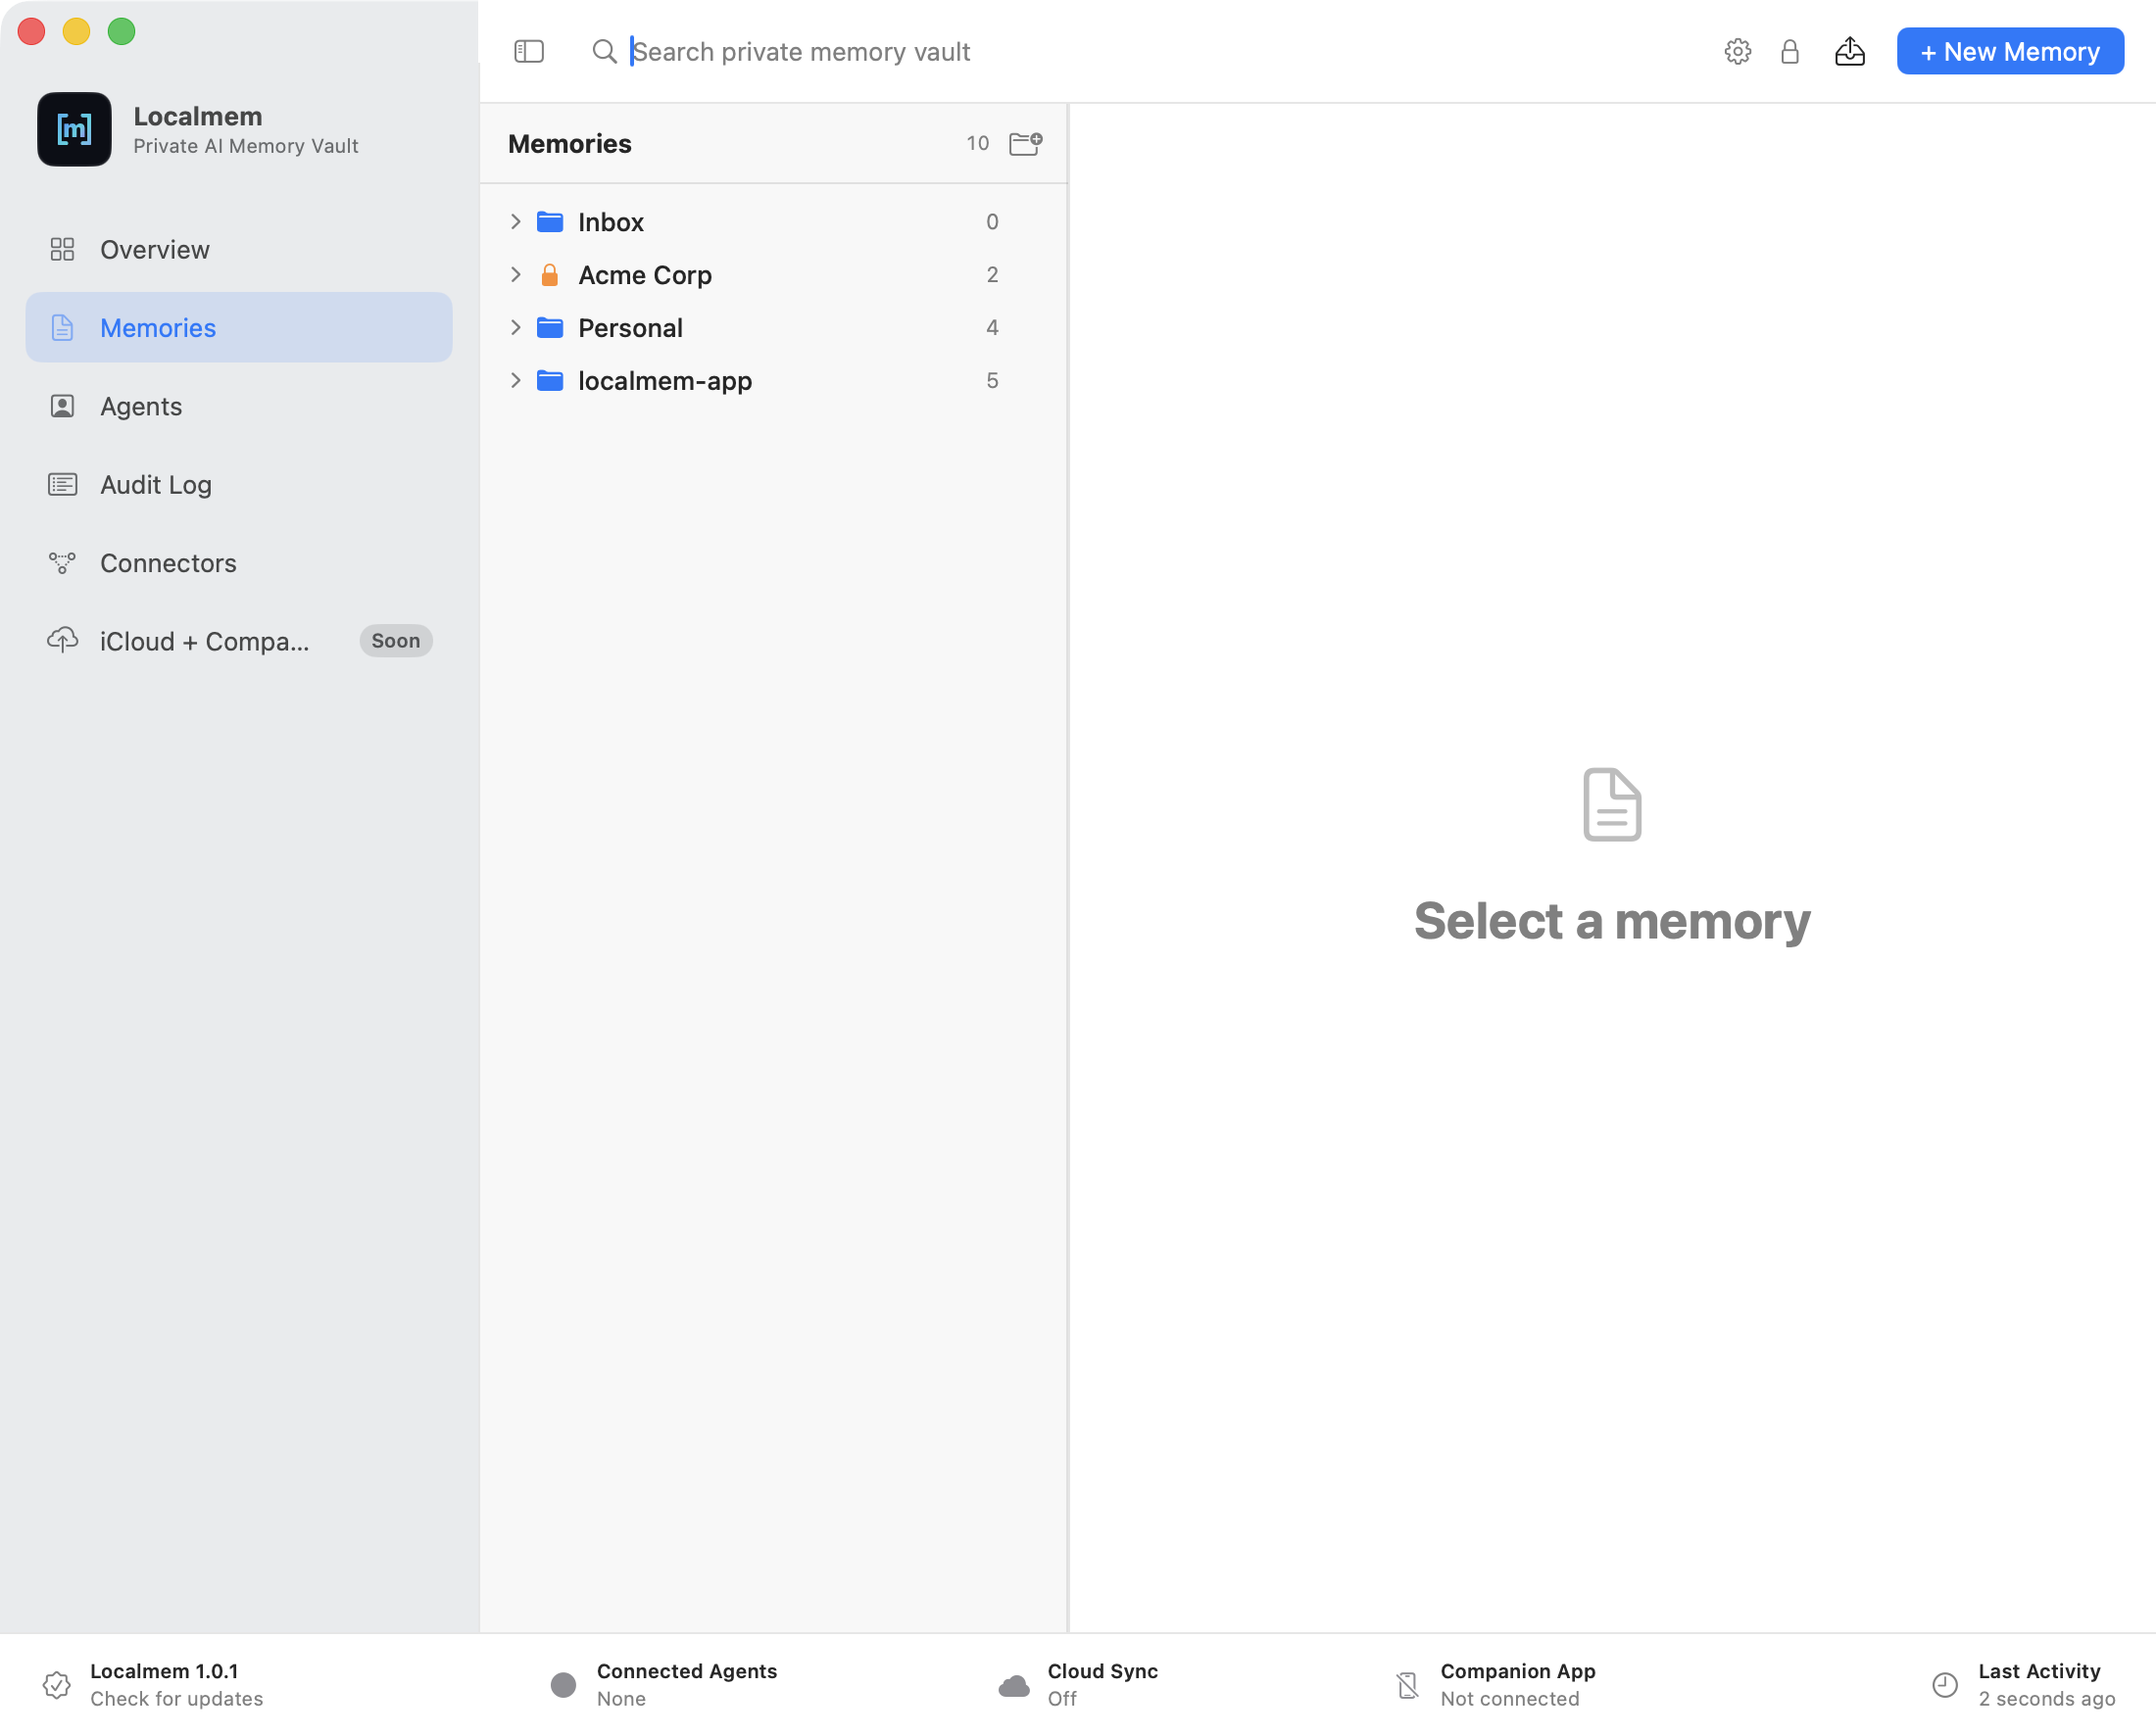
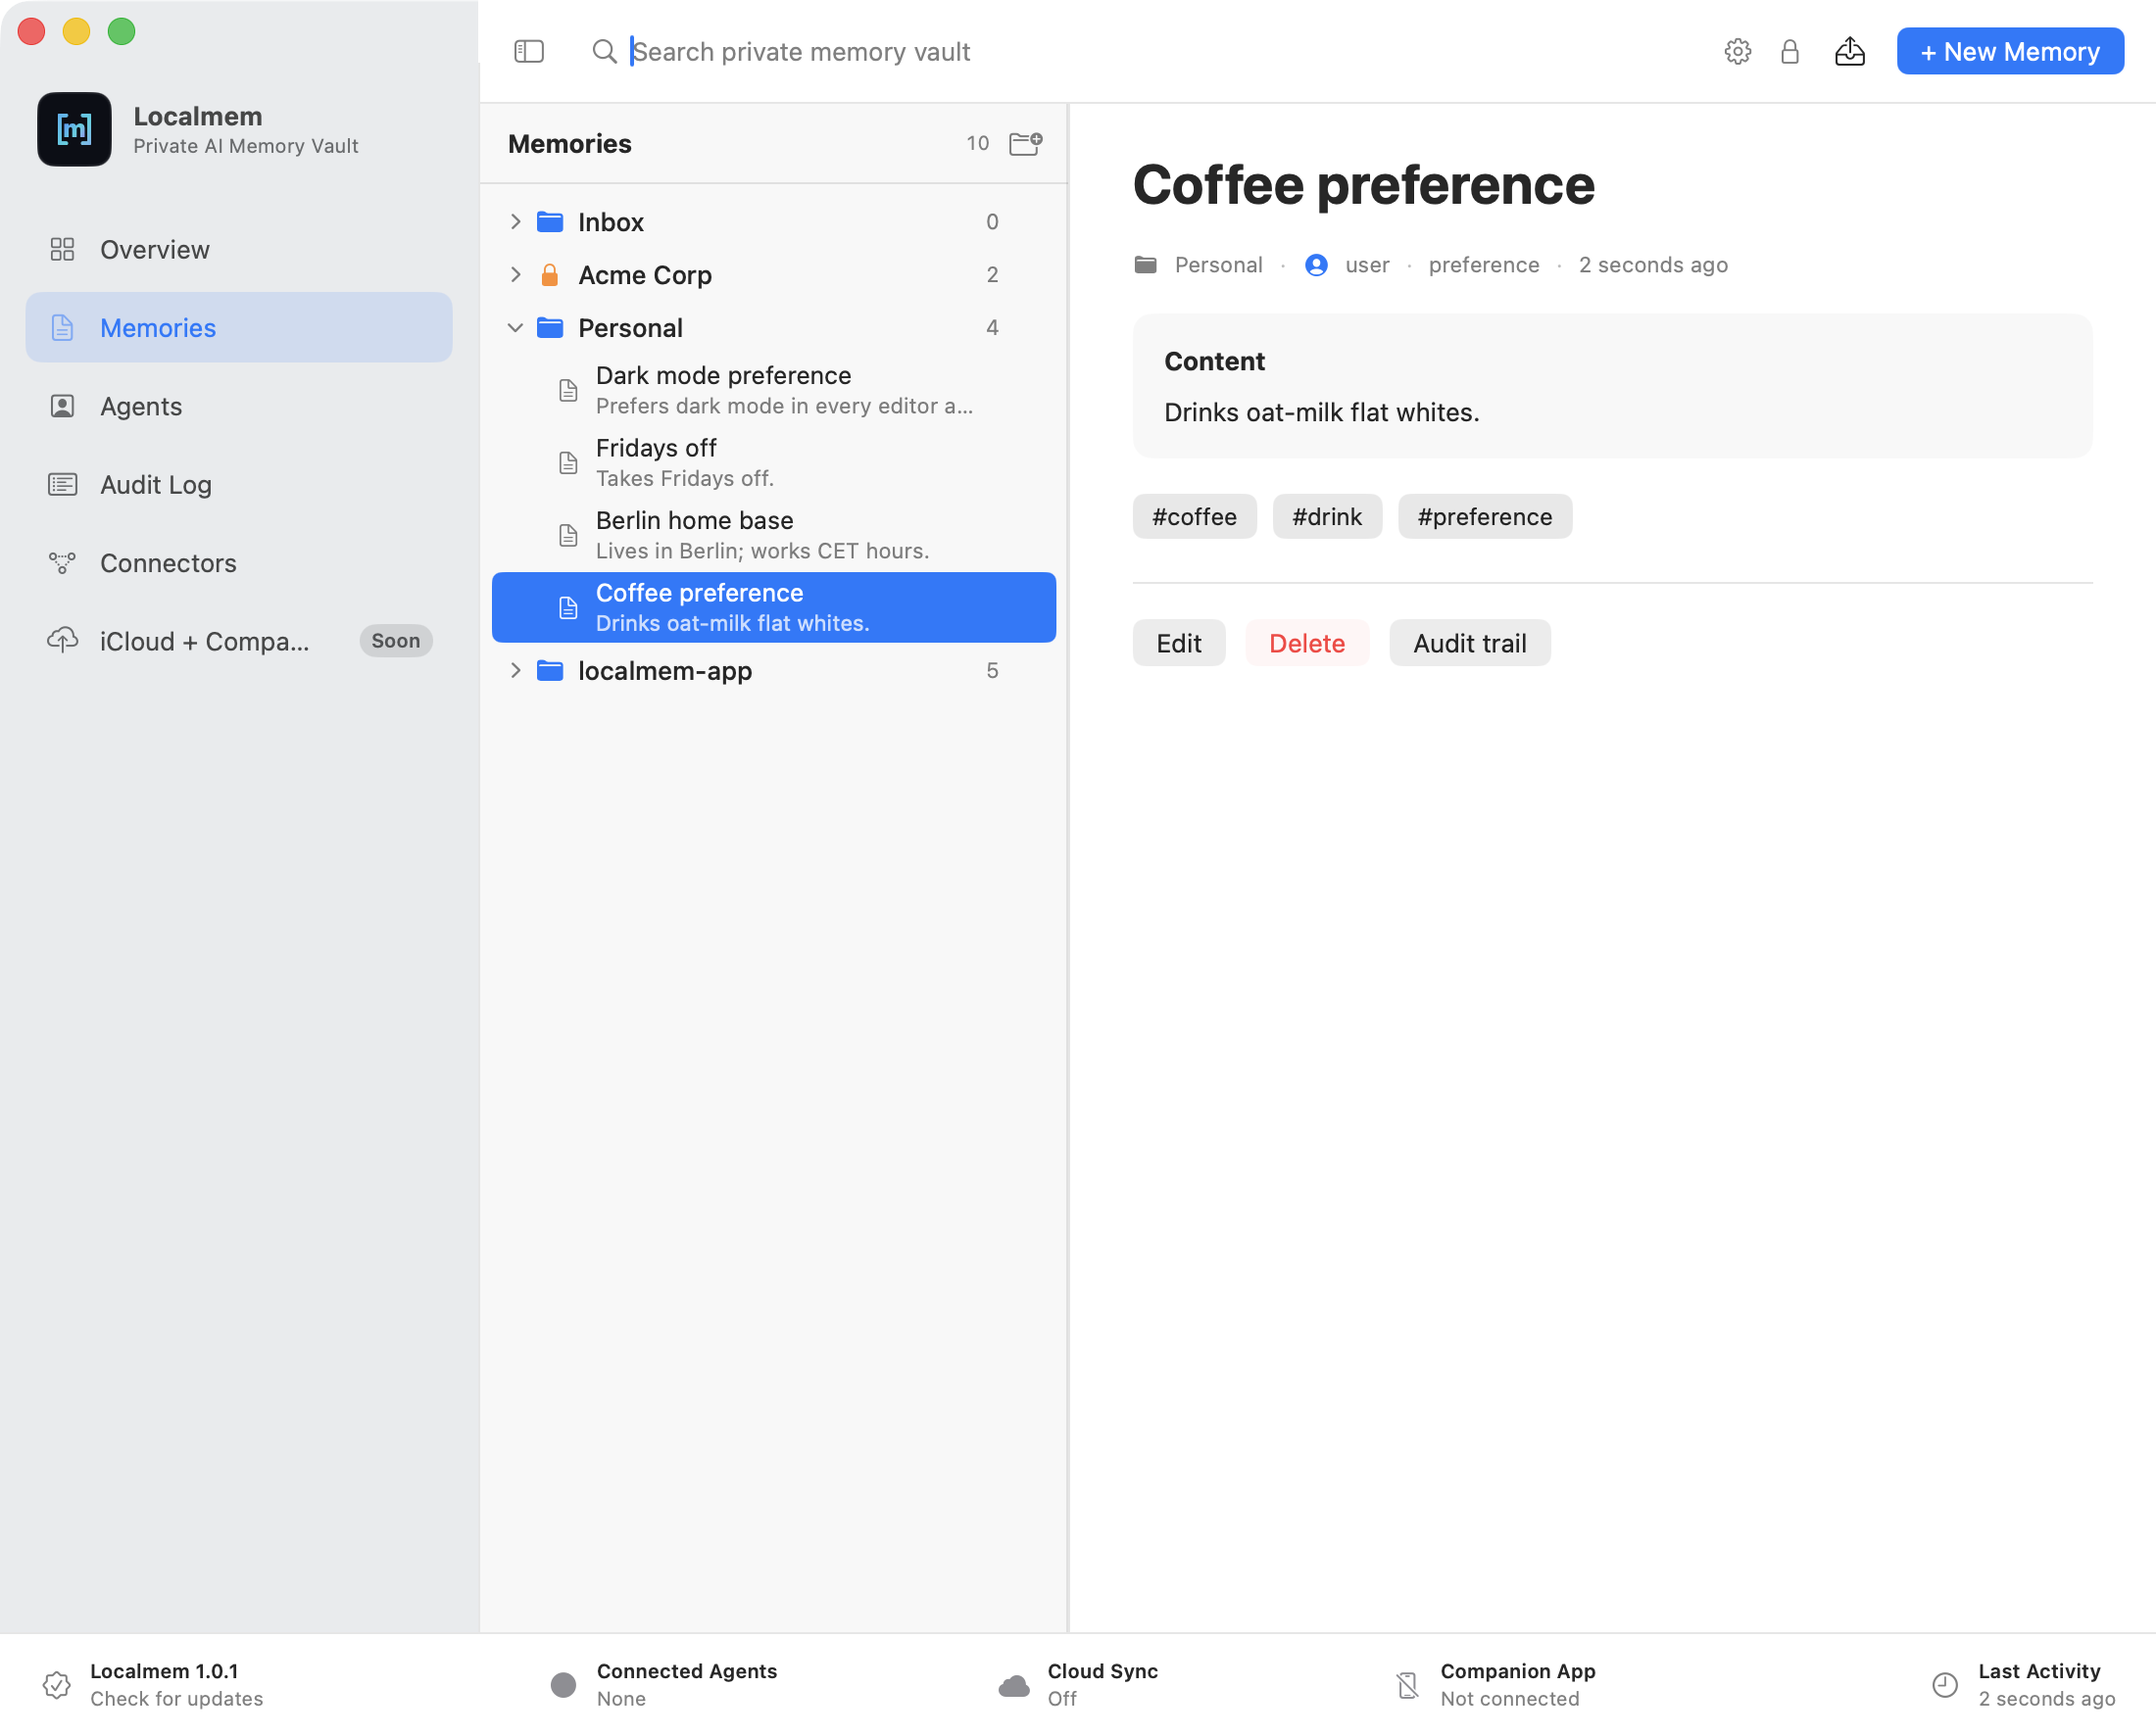
web: regenerate screenshots, drop the slide for a removed feature
The captured set replaces images taken before folders (#35) and the
version cell (#37) shipped. vault.png now shows what its caption has been
claiming since the copy refresh: folders with counts, a sensitive folder
carrying its lock, and a memory open with content and tags. It opens the
coffee memory on purpose — the terminal panel higher up the page shows an
agent recalling that same fact, so the two carousels tell one story.

Dropped the access.png slide. It advertised an Access Roster section that
no longer exists in AppSection, and its caption duplicated the Agents
slide beside it. Five slides now: browse, import, control, audit, setup.

Image dimensions corrected to 1100x886 — the assets are 2200x1772, and
the tags still claimed the old window's 1512x890.

settings.png and overview.png are captured but unused by the site.
settings.png is for the README and privacy page, since it shows the
update toggle; overview.png is held back because its "Recent Agent
Activity" panel lists CLI writes, the seed script being the CLI. Making
that panel honest means seeding through localmem-mcp instead.

RELEASING.md gains the regeneration step, with the failure it prevents
recorded: a caption promising folders next to a build that had none.

diff --git a/web/index.html b/web/index.html
@@ -328,32 +328,27 @@
 
         <!-- Slide 1: Vault -->
         <div class="lm-slide" data-cap="Browse every memory in one calm vault — filed into folders, with content and tags.">
-          <div class="lm-shot"><img src="screenshots/vault.png" width="1512" height="890" loading="lazy" alt="Localmem vault showing memories organised into folders, with content and tags." /></div>
+          <div class="lm-shot"><img src="screenshots/vault.png" width="1100" height="886" loading="lazy" alt="Localmem vault showing memories organised into folders, with content and tags." /></div>
         </div>
 
         <!-- Slide 2: File import / connectors -->
         <div class="lm-slide" data-cap="Import your files — every extracted fact is verified against the source before it's stored.">
-          <div class="lm-shot"><img src="screenshots/connectors.png" width="1512" height="890" loading="lazy" alt="Localmem Files connector showing an imported file, its extracted-versus-kept curation count, and the memories it produced." /></div>
+          <div class="lm-shot"><img src="screenshots/connectors.png" width="1100" height="886" loading="lazy" alt="Localmem Files connector showing an imported file, its extracted-versus-kept curation count, and the memories it produced." /></div>
         </div>
 
         <!-- Slide 3: Agents -->
         <div class="lm-slide" data-cap="Mark a folder sensitive and choose which agents can read it.">
-          <div class="lm-shot"><img src="screenshots/agents.png" width="1512" height="890" loading="lazy" alt="Localmem Agents screen listing Claude Code, Claude Desktop, Cursor, Codex and Antigravity with reads and writes." /></div>
-        </div>
-
-        <!-- Slide 4: Agent visibility -->
-        <div class="lm-slide" data-cap="Each connected agent reads everything, or skips your sensitive folders.">
-          <div class="lm-shot"><img src="screenshots/access.png" width="1512" height="890" loading="lazy" alt="Localmem listing every connected agent and whether it can read sensitive folders." /></div>
+          <div class="lm-shot"><img src="screenshots/agents.png" width="1100" height="886" loading="lazy" alt="Localmem Agents screen listing Claude Code, Claude Desktop, Cursor, Codex and Antigravity with reads and writes." /></div>
         </div>
 
         <!-- Slide 5: Activity / audit log -->
         <div class="lm-slide" data-cap="A complete, on-device audit trail of every read and write.">
-          <div class="lm-shot"><img src="screenshots/activity.png" width="1512" height="890" loading="lazy" alt="Localmem Audit Log listing every read, write and search by agent, newest first." /></div>
+          <div class="lm-shot"><img src="screenshots/activity.png" width="1100" height="886" loading="lazy" alt="Localmem Audit Log listing every read, write and search by agent, newest first." /></div>
         </div>
 
         <!-- Slide 6: Setup wizard -->
         <div class="lm-slide" data-cap="One-click setup connects Localmem to the AI clients you already use.">
-          <div class="lm-shot"><img src="screenshots/setup.png" width="1512" height="890" loading="lazy" alt="Localmem setup wizard welcoming you and connecting your AI clients." /></div>
+          <div class="lm-shot"><img src="screenshots/setup.png" width="1100" height="886" loading="lazy" alt="Localmem setup wizard welcoming you and connecting your AI clients." /></div>
         </div>
 
       </div>

diff --git a/RELEASING.md b/RELEASING.md
@@ -36,6 +36,22 @@ Two things the automation **cannot** check for you. Both are below.
 3. **Sanity-check the release notes render**, since the update dialog shows the
    raw body text.
 
+4. **Regenerate the screenshots if the UI moved.**
+
+   ```bash
+   ./scripts/screenshots.sh      # run from Terminal, not from an IDE
+   ```
+
+   Seeds a fictional vault and captures each screen against it, so nothing
+   personal is ever photographed. Requires Screen Recording permission; macOS
+   prompts on the first attempt, but only when the request comes from a terminal
+   with a UI — from a background helper it fails silently.
+
+   Screenshots rot quietly, and stale ones are worse than none: `vault.png` once
+   sat beside a caption promising folders while showing a build that had none,
+   and `access.png` advertised a section that had been removed entirely. Check
+   each caption in `web/index.html` still matches its image.
+
 ## Tag and push
 
 ```bash
